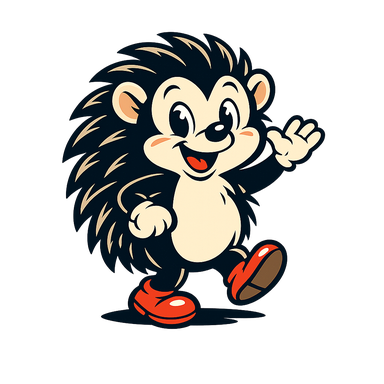
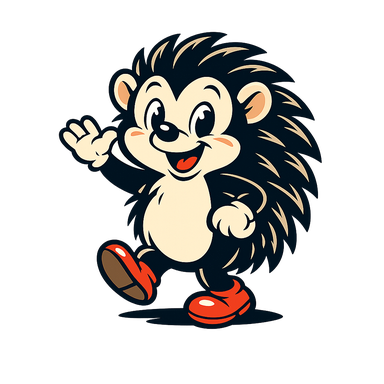
Hedgehog: flip, static body, eye tracking + squint

Changed region(s): [[0.1562, 0.0625, 0.8438, 0.875]]

diff --git a/styles.css b/styles.css
@@ -426,34 +426,32 @@ a:hover {
   border-radius: 999px;
 }
 
-/* Ёжик — PNG-арт, следит (поворот) */
+/* Ёжик — статичный PNG (flip), глаза следят, редкий прищур */
 .ezhik {
-  --look-x: 0deg;
-  --look-y: 0deg;
-  --scale: 1;
+  --px: 0px;
+  --py: 0px;
   position: fixed;
-  right: 0.35rem;
-  bottom: 0.15rem;
+  right: 0.25rem;
+  bottom: 0.1rem;
   z-index: 40;
-  width: 132px;
-  height: 132px;
+  width: 140px;
+  height: 140px;
   cursor: pointer;
   user-select: none;
   -webkit-user-select: none;
-  filter: drop-shadow(0 10px 18px rgba(0, 0, 0, 0.5));
-  transform-origin: 70% 85%;
-  transform:
-    perspective(420px)
-    rotateY(var(--look-x))
-    rotateX(var(--look-y))
-    scale(var(--scale));
-  transition: filter 0.2s ease;
-  will-change: transform;
+  filter: drop-shadow(0 10px 18px rgba(0, 0, 0, 0.55));
+  transition: filter 0.2s ease, transform 0.2s ease;
 }
 
 .ezhik:hover {
-  --scale: 1.06;
-  filter: drop-shadow(0 12px 22px rgba(100, 255, 218, 0.2));
+  filter: drop-shadow(0 12px 22px rgba(100, 255, 218, 0.18));
+  transform: translateY(-2px);
+}
+
+.ezhik-stage {
+  position: relative;
+  width: 100%;
+  height: 100%;
 }
 
 .ezhik-img {
@@ -465,10 +463,94 @@ a:hover {
   user-select: none;
 }
 
+/* Глаза: % от картинки (подогнано под арт после flip) */
+.ezhik-eye {
+  --ex: 0px;
+  --ey: 0px;
+  position: absolute;
+  width: 11.5%;
+  height: 13.5%;
+  border-radius: 50%;
+  background: #0a0e14;
+  overflow: hidden;
+  pointer-events: none;
+  box-shadow: inset 0 -1px 2px rgba(255, 255, 255, 0.12);
+}
+
+.ezhik-eye-l {
+  left: 40.5%;
+  top: 28.2%;
+}
+
+.ezhik-eye-r {
+  left: 53.2%;
+  top: 28%;
+}
+
+.ezhik-pupil {
+  position: absolute;
+  left: 50%;
+  top: 52%;
+  width: 62%;
+  height: 62%;
+  margin: -31% 0 0 -31%;
+  border-radius: 50%;
+  background: radial-gradient(circle at 35% 30%, #2a3140 0%, #05070c 70%);
+  transform: translate(var(--ex), var(--ey));
+  transition: transform 0.05s linear;
+}
+
+.ezhik-shine {
+  position: absolute;
+  left: 50%;
+  top: 42%;
+  width: 28%;
+  height: 28%;
+  margin: -14% 0 0 -14%;
+  border-radius: 50%;
+  background: #fff;
+  opacity: 0.95;
+  transform: translate(var(--ex), var(--ey));
+  transition: transform 0.05s linear;
+  box-shadow: 3px 4px 0 -1px rgba(255, 255, 255, 0.35);
+}
+
+/* Веко для прищура */
+.ezhik-lid {
+  position: absolute;
+  left: 0;
+  right: 0;
+  top: 0;
+  height: 0%;
+  background: linear-gradient(#1a1f2a, #0d1118);
+  border-radius: 50% 50% 0 0;
+  transition: height 0.12s ease;
+  z-index: 2;
+}
+
+.ezhik.is-squint .ezhik-lid {
+  height: 72%;
+}
+
+.ezhik.is-squint .ezhik-pupil,
+.ezhik.is-squint .ezhik-shine {
+  opacity: 0.35;
+  transition: opacity 0.1s ease, transform 0.05s linear;
+}
+
+.ezhik.is-wink .ezhik-eye-r .ezhik-lid {
+  height: 88%;
+}
+
+.ezhik.is-wink .ezhik-eye-r .ezhik-pupil,
+.ezhik.is-wink .ezhik-eye-r .ezhik-shine {
+  opacity: 0.2;
+}
+
 .ezhik-bubble {
   position: absolute;
-  right: 108px;
-  bottom: 88px;
+  right: 112px;
+  bottom: 92px;
   white-space: nowrap;
   font-size: 0.75rem;
   font-weight: 600;
@@ -499,34 +581,38 @@ a:hover {
   transform: translateY(0) scale(1);
 }
 
-.ezhik.wave {
-  animation: ezhik-bounce 0.55s ease;
+.ezhik.wave .ezhik-stage {
+  animation: ezhik-bounce 0.5s ease;
 }
 
 @keyframes ezhik-bounce {
-  0%, 100% { translate: 0 0; }
-  35% { translate: 0 -12px; }
-  70% { translate: 0 -4px; }
+  0%, 100% { transform: translateY(0); }
+  35% { transform: translateY(-10px); }
+  70% { transform: translateY(-3px); }
 }
 
 @media (max-width: 720px) {
   .ezhik {
-    width: 96px;
-    height: 96px;
-    right: 0.15rem;
-    bottom: 0.05rem;
+    width: 100px;
+    height: 100px;
+    right: 0.1rem;
+    bottom: 0;
   }
   .ezhik-bubble {
-    right: 78px;
-    bottom: 64px;
+    right: 80px;
+    bottom: 68px;
     font-size: 0.68rem;
   }
 }
 
 @media (prefers-reduced-motion: reduce) {
-  .ezhik {
-    --look-x: 0deg !important;
-    --look-y: 0deg !important;
+  .ezhik-pupil,
+  .ezhik-shine {
+    transform: none !important;
+    transition: none !important;
+  }
+  .ezhik.wave .ezhik-stage {
+    animation: none;
   }
 }
 

diff --git a/script.js b/script.js
@@ -85,28 +85,35 @@
     });
   });
 
-  // ——— Ёжик (PNG): слегка поворачивается к курсору ———
+  // ——— Ёжик: картинка статична, глаза следят, иногда прищур ———
   const ezhik = document.getElementById("ezhik");
   const bubble = document.getElementById("ezhik-bubble");
   if (!ezhik) return;
 
-  const maxYaw = 16;
-  const maxPitch = 10;
+  const eyes = ezhik.querySelectorAll(".ezhik-eye");
+  const maxEye = 3.2; // px offset inside socket
 
   function lookAt(clientX, clientY) {
     if (reduceMotion) return;
-    const box = ezhik.getBoundingClientRect();
-    const cx = box.left + box.width * 0.55;
-    const cy = box.top + box.height * 0.4;
-    const nx = Math.max(-1, Math.min(1, (clientX - cx) / (window.innerWidth * 0.45)));
-    const ny = Math.max(-1, Math.min(1, (clientY - cy) / (window.innerHeight * 0.45)));
-    ezhik.style.setProperty("--look-x", `${nx * maxYaw}deg`);
-    ezhik.style.setProperty("--look-y", `${-ny * maxPitch}deg`);
+    eyes.forEach((eye) => {
+      const r = eye.getBoundingClientRect();
+      const cx = r.left + r.width / 2;
+      const cy = r.top + r.height / 2;
+      const dx = clientX - cx;
+      const dy = clientY - cy;
+      const dist = Math.hypot(dx, dy) || 1;
+      const nx = (dx / dist) * maxEye;
+      const ny = (dy / dist) * maxEye;
+      eye.style.setProperty("--ex", `${nx}px`);
+      eye.style.setProperty("--ey", `${ny}px`);
+    });
   }
 
-  window.addEventListener("pointermove", (e) => lookAt(e.clientX, e.clientY), {
-    passive: true,
-  });
+  window.addEventListener(
+    "pointermove",
+    (e) => lookAt(e.clientX, e.clientY),
+    { passive: true }
+  );
   window.addEventListener(
     "touchstart",
     (e) => {
@@ -115,6 +122,30 @@
     },
     { passive: true }
   );
+  window.addEventListener(
+    "touchmove",
+    (e) => {
+      const t = e.touches[0];
+      if (t) lookAt(t.clientX, t.clientY);
+    },
+    { passive: true }
+  );
+
+  // Случайный прищур / подмигивание
+  function scheduleSquint() {
+    if (reduceMotion) return;
+    const delay = 3500 + Math.random() * 5500;
+    setTimeout(() => {
+      const wink = Math.random() < 0.35;
+      ezhik.classList.remove("is-squint", "is-wink");
+      ezhik.classList.add(wink ? "is-wink" : "is-squint");
+      setTimeout(() => {
+        ezhik.classList.remove("is-squint", "is-wink");
+        scheduleSquint();
+      }, wink ? 180 : 140 + Math.random() * 80);
+    }, delay);
+  }
+  scheduleSquint();
 
   const phrases = [
     "Привет! 🦔",
@@ -127,12 +158,13 @@
   let hideTimer;
 
   ezhik.addEventListener("click", () => {
-    ezhik.classList.add("wave", "show-bubble");
+    ezhik.classList.add("wave", "show-bubble", "is-wink");
     if (bubble) {
       bubble.textContent = phrases[phraseIdx % phrases.length];
       phraseIdx += 1;
     }
     clearTimeout(hideTimer);
+    setTimeout(() => ezhik.classList.remove("is-wink"), 220);
     hideTimer = setTimeout(() => {
       ezhik.classList.remove("show-bubble", "wave");
     }, 2200);

diff --git a/index.html b/index.html
@@ -190,17 +190,29 @@
     </main>
   </div>
 
-  <!-- Ёжик: твой арт, поворачивается к курсору -->
+  <!-- Ёжик: статичный PNG (отражён), глаза/блики следят, иногда прищур -->
   <div class="ezhik" id="ezhik" title="@Ezhik302">
-    <img
-      class="ezhik-img"
-      id="ezhik-img"
-      src="ezhik.png"
-      width="128"
-      height="128"
-      alt="Ёжик — маскот"
-      draggable="false"
-    />
+    <div class="ezhik-stage">
+      <img
+        class="ezhik-img"
+        src="ezhik.png"
+        width="384"
+        height="384"
+        alt="Ёжик — маскот"
+        draggable="false"
+      />
+      <!-- глаза поверх: зрачки + блики едут за курсором -->
+      <div class="ezhik-eye ezhik-eye-l" aria-hidden="true">
+        <span class="ezhik-pupil"></span>
+        <span class="ezhik-shine"></span>
+        <span class="ezhik-lid"></span>
+      </div>
+      <div class="ezhik-eye ezhik-eye-r" aria-hidden="true">
+        <span class="ezhik-pupil"></span>
+        <span class="ezhik-shine"></span>
+        <span class="ezhik-lid"></span>
+      </div>
+    </div>
     <span class="ezhik-bubble" id="ezhik-bubble">Привет! 🦔</span>
   </div>
 
